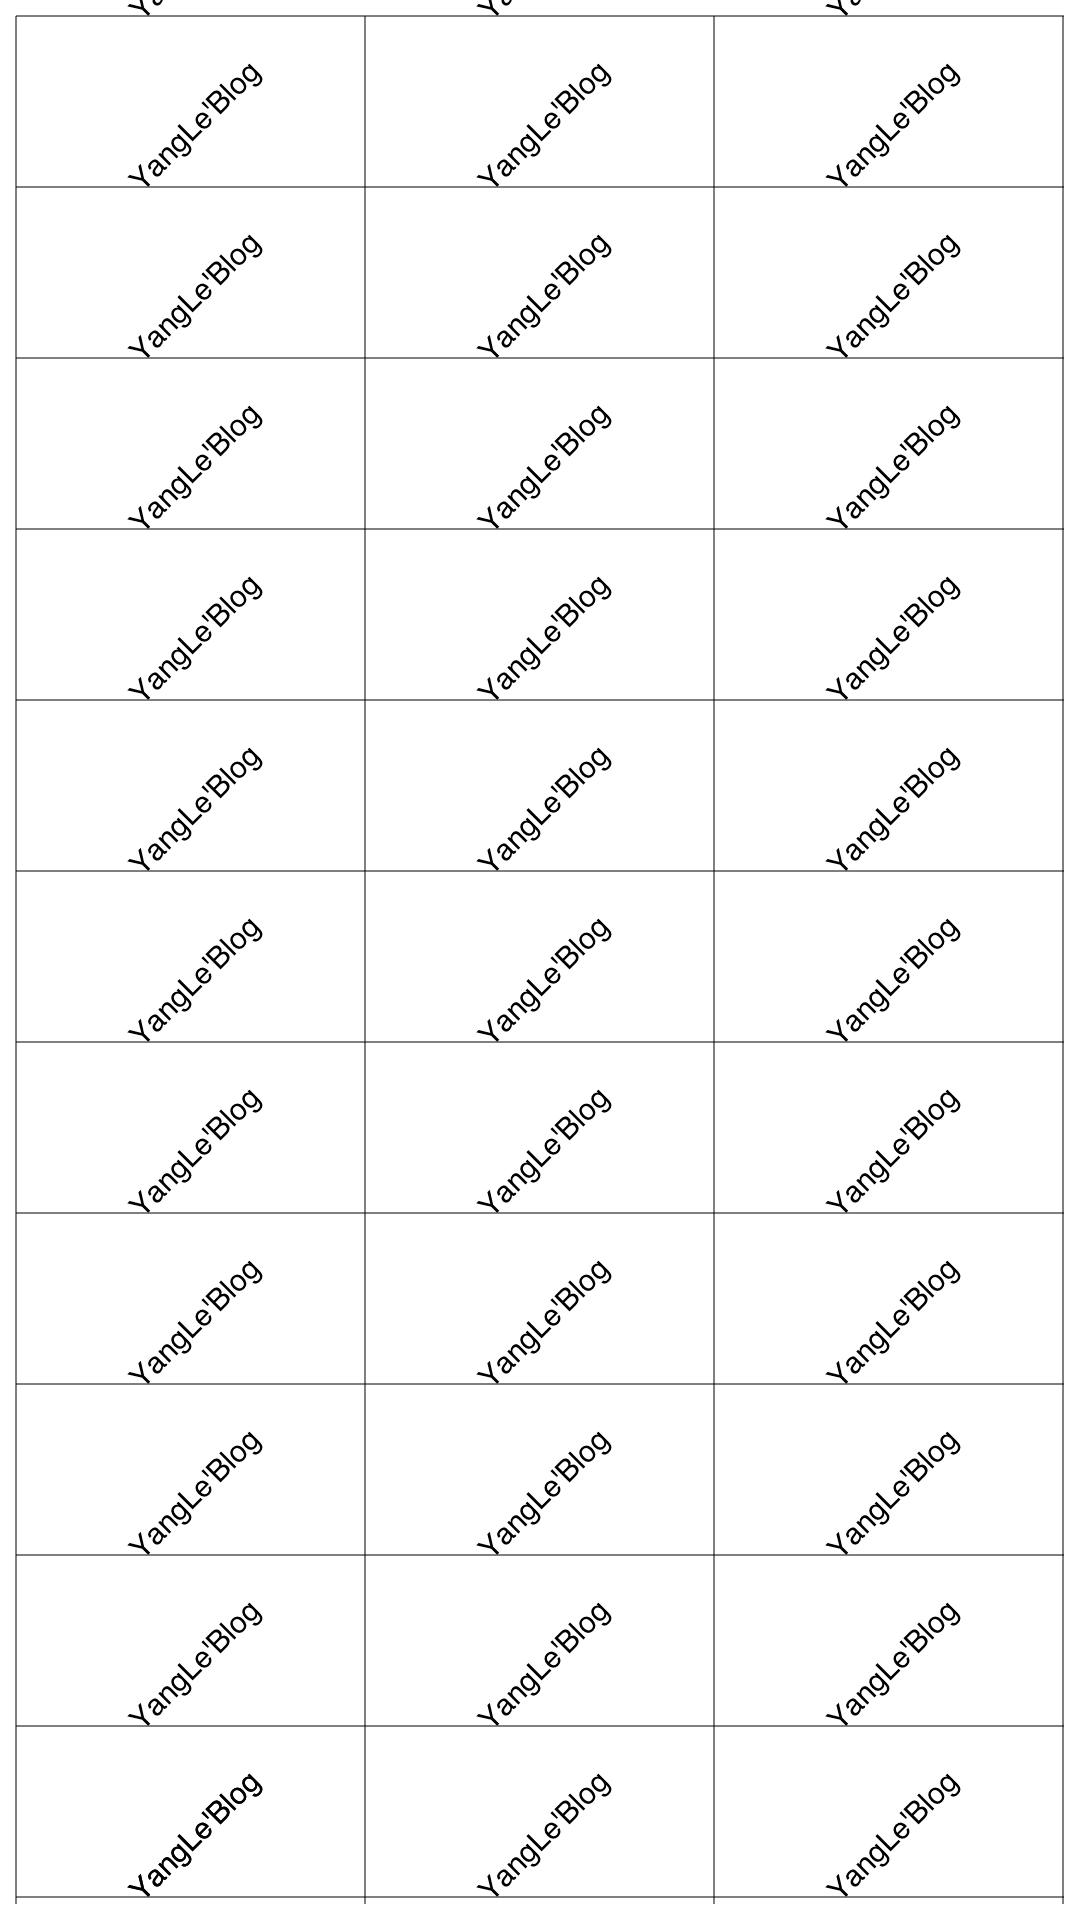
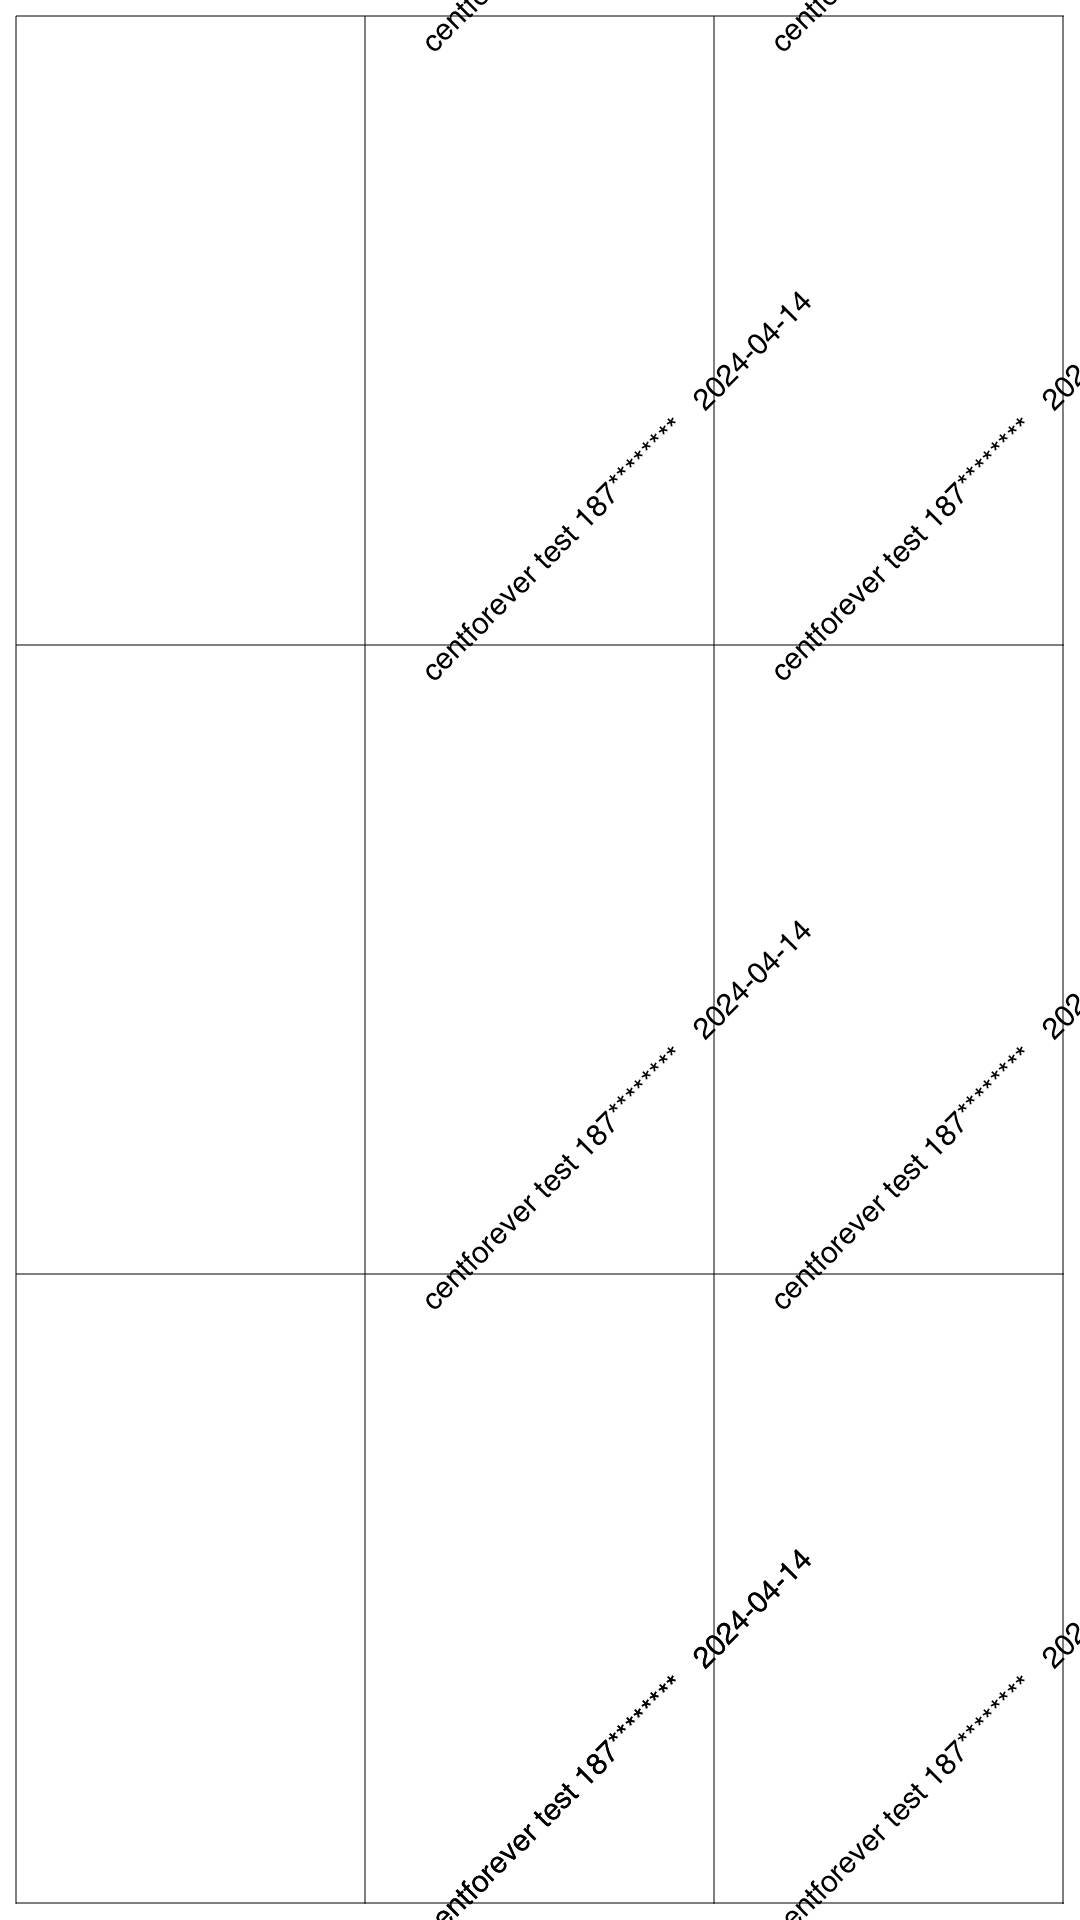
水印

diff --git a/src/skia/watermark/single_line_water_mark.cpp b/src/skia/watermark/single_line_water_mark.cpp
@@ -196,6 +196,81 @@ std::string drawWaterMarkModelTwo(SkCanvas *canvas) {
     return "multi_line_water_mark_model_two.png";
 }
 
+std::string drawMultilinesWaterMark(SkCanvas *canvas) {
+    // 清处背景
+    canvas->clear(SK_ColorWHITE);
+    // 创建SkFont和文字大小
+    // 创建字体对象
+    SkFont font(nullptr, 30.0f);
+    // 抗锯齿
+    font.setEdging(SkFont::Edging::kAntiAlias);
+
+    // 文本
+    std::vector<std::string> labels;
+    labels.push_back("centforever 李逍遥");
+    labels.push_back("2515");
+
+    int column = 3; //默认3列
+    int row = 0;//默认0行
+
+    // view宽
+    auto width = canvas->imageInfo().width();
+    // view高
+    auto height = canvas->imageInfo().height();
+
+    // 更新行列
+    row = height / (width / 3);
+
+    // padding left right偏移
+    int startW = 16;
+    // padding top bottom偏移
+    int startH = 16;
+
+    // 创建SkPaint对象并设置文本样式
+    SkPaint paint;
+    paint.setAntiAlias(true);
+    // 设置文本颜色
+    paint.setColor(SK_ColorBLACK);
+
+    auto tileW = (width - 2 * startW) / column;//宽
+    auto tileH = (height - 2 * startH) / row;//高
+
+    float startX = 0, startY = 0;
+    for (int i = 0; i < column + 1; i ++) { //横向分隔,线条数=格数+1，画竖线
+        startX = startW + i * tileW;
+        startY = startH;
+        canvas->drawLine(startX, startY, startX, height - startH, paint);//(x,y[min])-->(x,y[max])
+    }
+    for (int i = 0; i < row + 1; i ++) {//纵向分隔,线条数=格数+1，画横线
+        startX = startW;
+        startY = startH + i * tileH;
+        canvas->drawLine(startX, startY, width - startW, startY, paint);//(x[min],y)-->(x[max],y)
+    }
+
+    for (int i = 0; i < column + 1; i ++) {
+        for (int j = 0; j < row + 1; j ++) {
+            canvas->save();
+            canvas->translate(startX, startY);
+            canvas->rotate(-45);
+            startX = startW + i * tileW;
+            startY = startH + j * tileH;
+            for (std::string text:labels) {
+                // 文字baseline在y轴方向的位置
+                SkFontMetrics fontMetrics{};
+                font.getMetrics(&fontMetrics);
+                float baseLineY = std::abs(fontMetrics.fDescent + fontMetrics.fAscent) / 2;
+                // 文本长度
+                size_t length = strlen(text.c_str());
+                // 文字宽
+                float textWidth = font.measureText(text.c_str(), length, SkTextEncoding::kUTF8);
+                canvas->drawSimpleText(text.c_str(), length, SkTextEncoding::kUTF8, textWidth, baseLineY, font, paint);
+            }
+            canvas->restore();
+        }
+    }
+    return "multi_line_water_mark.png";
+}
+
 int main() {
     //加载图片资源
     SkBitmap canvasBitmap;
@@ -203,7 +278,7 @@ int main() {
     canvasBitmap.allocPixels(imageInfo, imageInfo.minRowBytes());  //为位图设备绑定信息和分配内存
 
     SkCanvas canvas(canvasBitmap);
-    std::string fileName = drawSingleWaterMark(&canvas);
+    std::string fileName = drawMultilinesWaterMark(&canvas);
     //将绘制结果保存到图片文件中
     std::string current_directory = File::get_current_directory();
     std::filesystem::path current_path = std::filesystem::current_path();
